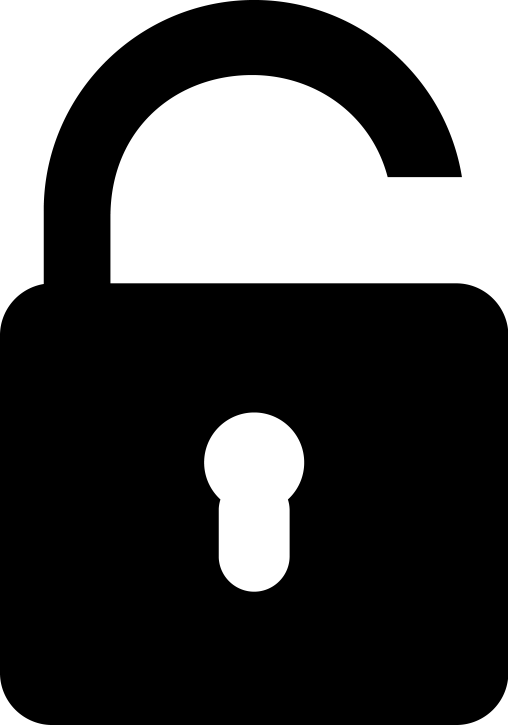
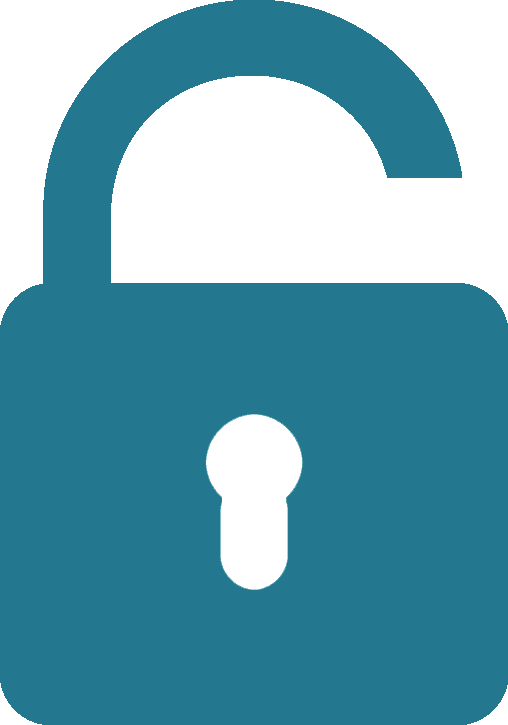
Fixes/security fixes (#24)
* unlock colour fix and missing error message

* Error handling improved and place holder code for global rpc message handler implemented.
error for invlid password to unlock wallet fixed and unlock wallet icon green

* updated wallet encrypted check to platform url, needs to be abstracted in the future due to code duplication.

* more error handling and messages, tweaked send style.

diff --git a/app/services/error.service.js b/app/services/error.service.js
@@ -1,28 +1,133 @@
 import { traduction } from '../lang/lang';
 
-const lang = traduction();
+const l = traduction();
 
-const ErrorEnum = Object.freeze(
-  {
-    RPC_MISC_ERROR: lang.invalidEccAddress,
-    RPC_IN_WARMUP: lang.loadingBlockIndex,
-    RPC_UNLOCK_WALLET: lang.unlockWalletFirst,
-    RPC_INVALID_ADDRESS: lang.invalidEccAddress,
-    RPC_WRONG_PASSPHASE: lang.walletWrongPass
-  }
-);
+// //! General application defined errors
+// RPC_MISC_ERROR                  = -1,  //! std::exception thrown in command handling
+// RPC_FORBIDDEN_BY_SAFE_MODE      = -2,  //! Server is in safe mode, and command is not allowed in safe mode
+// RPC_TYPE_ERROR                  = -3,  //! Unexpected type was passed as parameter
+// RPC_INVALID_ADDRESS_OR_KEY      = -5,  //! Invalid address or key
+// RPC_OUT_OF_MEMORY               = -7,  //! Ran out of memory during operation
+// RPC_INVALID_PARAMETER           = -8,  //! Invalid, missing or duplicate parameter
+// RPC_DATABASE_ERROR              = -20, //! Database error
+// RPC_DESERIALIZATION_ERROR       = -22, //! Error parsing or validating structure in raw format
+// RPC_VERIFY_ERROR                = -25, //! General error during transaction or block submission
+// RPC_VERIFY_REJECTED             = -26, //! Transaction or block was rejected by network rules
+// RPC_VERIFY_ALREADY_IN_CHAIN     = -27, //! Transaction already in chain
+// RPC_IN_WARMUP                   = -28, //! Client still warming up
+
+const GeneralErrEnum = Object.freeze({
+  RPC_MISC_ERROR                  :'',  //! std::exception thrown in command handling
+  RPC_FORBIDDEN_BY_SAFE_MODE      :'',  //! Server is in safe mode, and command is not allowed in safe mode
+  RPC_TYPE_ERROR                  :'',  //! Unexpected type was passed as parameter
+  RPC_INVALID_ADDRESS_OR_KEY      :l.invalidEccAddress,  //! Invalid address or key
+  RPC_OUT_OF_MEMORY               :'',  //! Ran out of memory during operation
+  RPC_INVALID_PARAMETER           :'',  //! Invalid, missing or duplicate parameter
+  RPC_DATABASE_ERROR              :'', //! Database error
+  RPC_DESERIALIZATION_ERROR       :'', //! Error parsing or validating structure in raw format
+  RPC_VERIFY_ERROR                :'', //! General error during transaction or block submission
+  RPC_VERIFY_REJECTED             :'', //! Transaction or block was rejected by network rules
+  RPC_VERIFY_ALREADY_IN_CHAIN     :'', //! Transaction already in chain
+  RPC_IN_WARMUP                   :l.loadingBlockIndex //! Client still warming up
+});
+
+const P2PClientErrEnum = Object.freeze({
+  RPC_CLIENT_NOT_CONNECTED:'',        //! -9,  //! Bitcoin is not connected
+  RPC_CLIENT_IN_INITIAL_DOWNLOAD:'',  //! -10, //! Still downloading initial blocks
+  RPC_CLIENT_NODE_ALREADY_ADDED:'',   //! -23, //! Node is already added
+  RPC_CLIENT_NODE_NOT_ADDED:'',       //! -24, //! Node has not been added before
+  RPC_CLIENT_NODE_NOT_CONNECTED:'',   //! -29, //! Node to disconnect not found in connected nodes
+  RPC_CLIENT_INVALID_IP_OR_SUBNET:'', //! -30, //! Invalid IP/Subnet
+});
+
+// //! Wallet errors
+// RPC_WALLET_ERROR                = -4,  //! Unspecified problem with wallet (key not found etc.)
+// RPC_WALLET_INSUFFICIENT_FUNDS   = -6,  //! Not enough funds in wallet or account
+// RPC_WALLET_INVALID_ACCOUNT_NAME = -11, //! Invalid account name
+// RPC_WALLET_KEYPOOL_RAN_OUT      = -12, //! Keypool ran out, call keypoolrefill first
+// RPC_WALLET_UNLOCK_NEEDED        = -13, //! Enter the wallet passphrase with walletpassphrase first
+// RPC_WALLET_PASSPHRASE_INCORRECT = -14, //! The wallet passphrase entered was incorrect
+// RPC_WALLET_WRONG_ENC_STATE      = -15, //! Command given in wrong wallet encryption state (encrypting an encrypted wallet etc.)
+// RPC_WALLET_ENCRYPTION_FAILED    = -16, //! Failed to encrypt the wallet
+// RPC_WALLET_ALREADY_UNLOCKED     = -17 //! Wallet is already unlocked
+
+const WalletErrEnum = Object.freeze({
+  RPC_WALLET_ERROR: l.generalWalletError, //! Unspecified problem with wallet (key not found etc.)
+  RPC_WALLET_INSUFFICIENT_FUNDS:'',    //! Not enough funds in wallet or account
+  RPC_WALLET_INVALID_ACCOUNT_NAME: l.invalidEccAddress, //! Invalid account name
+  RPC_WALLET_KEYPOOL_RAN_OUT: '',      //! Keypool ran out, call keypoolrefill first
+  RPC_WALLET_UNLOCK_NEEDED: l.unlockWalletFirst,        //! Enter the wallet passphrase with walletpassphrase first
+  RPC_WALLET_PASSPHRASE_INCORRECT: l.walletWrongPass, //! The wallet passphrase entered was incorrect
+  RPC_WALLET_WRONG_ENC_STATE: '',      //! Command given in wrong wallet encryption state (encrypting an encrypted wallet etc.)
+  RPC_WALLET_ENCRYPTION_FAILED: '',    //! Failed to encrypt the wallet
+  RPC_WALLET_ALREADY_UNLOCKED: l.unlockWalletFirst,     //! Wallet is already unlocked
+
+});
 
 export default {
-  getErrorFromCode: (status) => {
+  getErrorFromCode: (status, message = null) => {
     switch (status) {
+      //General errors
+      case -1:
+        return GeneralErrEnum.RPC_MISC_ERROR;
+      case -2:
+        return GeneralErrEnum.RPC_FORBIDDEN_BY_SAFE_MODE;
+      case -3:
+        return GeneralErrEnum.RPC_TYPE_ERROR;
       case -5:
-        return ErrorEnum.RPC_INVALID_ADDRESS;
-      case -13:
-        return ErrorEnum.RPC_UNLOCK_WALLET;
-      case -14:
-        return ErrorEnum.RPC_WRONG_PASSPHASE;
+        return GeneralErrEnum.RPC_INVALID_ADDRESS_OR_KEY;
+      case -7:
+        return GeneralErrEnum.RPC_OUT_OF_MEMORY;
+      case -8:
+        return GeneralErrEnum.RPC_INVALID_PARAMETER;
+      case -20:
+        return GeneralErrEnum.RPC_DATABASE_ERROR;
+      case -22:
+        return GeneralErrEnum.RPC_DESERIALIZATION_ERROR;
+      case -25:
+        return GeneralErrEnum.RPC_VERIFY_ERROR;
+      case -26:
+        return GeneralErrEnum.RPC_VERIFY_REJECTED;
+      case -27:
+        return GeneralErrEnum.RPC_VERIFY_ALREADY_IN_CHAIN;
       case -28:
-        return ErrorEnum.RPC_IN_WARMUP;
+        return GeneralErrEnum.RPC_IN_WARMUP;
+
+
+      //P2P errors
+      case -9:
+        return P2PClientErrEnum.RPC_CLIENT_NOT_CONNECTED;
+      case -10:
+        return P2PClientErrEnum.RPC_CLIENT_IN_INITIAL_DOWNLOAD;
+      case -23:
+        return P2PClientErrEnum.RPC_CLIENT_NODE_ALREADY_ADDED;
+      case -24:
+        return P2PClientErrEnum.RPC_CLIENT_NODE_NOT_ADDED;
+      case -29:
+        return P2PClientErrEnum.RPC_CLIENT_NODE_NOT_CONNECTED;
+      case -30:
+        return P2PClientErrEnum.RPC_CLIENT_INVALID_IP_OR_SUBNET;
+
+
+      //Wallet errors
+      case -4:
+        return WalletErrEnum.RPC_WALLET_ERROR + message;
+      case -6:
+        return WalletErrEnum.RPC_WALLET_INSUFFICIENT_FUNDS;
+      case -11:
+        return WalletErrEnum.RPC_WALLET_INVALID_ACCOUNT_NAME;
+      case -12:
+        return WalletErrEnum.RPC_WALLET_KEYPOOL_RAN_OUT;
+      case -13:
+        return WalletErrEnum.RPC_WALLET_UNLOCK_NEEDED;
+      case -14:
+        return WalletErrEnum.RPC_WALLET_PASSPHRASE_INCORRECT;
+      case -15:
+        return WalletErrEnum.RPC_WALLET_WRONG_ENC_STATE;
+      case -16:
+        return WalletErrEnum.RPC_WALLET_ENCRYPTION_FAILED;
+      case -17:
+        return WalletErrEnum.RPC_WALLET_ALREADY_UNLOCKED;
       default:
         return 'An Error Occurred';
     }

diff --git a/app/components/SendTransactions/Send.js b/app/components/SendTransactions/Send.js
@@ -5,10 +5,10 @@ import AddressBook from './AddressBook';
 import wallet from '../../utils/wallet';
 import { traduction } from '../../lang/lang';
 import glob from 'glob';
+import { grabWalletDir } from "../../services/platform.service";
+import ErrorService from '../../services/error.service';
 
-const fs = require('fs');
 const event = require('../../utils/eventhandler');
-const homedir = require('os').homedir();
 const lang = traduction();
 
 class Send extends Component {
@@ -40,14 +40,15 @@ class Send extends Component {
   checkIfWalletEncrypted() {
     const self = this;
     wallet.help().then((data) => {
+      // console.log(data);
       if (data.indexOf('walletlock') > -1) {
-        self.setState({ encrypted: true });
+        self.setState({ step: 3 });
       } else {
-        self.setState({ encrypted: false });
+        self.setState({ step: 1 });
       }
     }).catch((err) => {
       if (err.message === 'connect ECONNREFUSED 127.0.0.1:19119') {
-        glob(`${homedir}/.eccoin-wallet/Eccoind*`, (error, files) => {
+        glob(`${grabWalletDir()}`, (err, files) => {
           if (!files.length) {
             event.emit('show', 'Install wallet by clicking the button in the bottom left.');
           } else {
@@ -236,9 +237,8 @@ class Send extends Component {
         event.emit('animate', lang.moneySent);
       }
     }).catch((err) => {
-      console.log(err);
       self.setState({ dialog: false, eccAddress: '', amount: ''});
-      event.emit('animate', lang.moneySendError);
+      event.emit('animate', ErrorService.getErrorFromCode(err.code));
     });
   }
 
@@ -279,12 +279,11 @@ class Send extends Component {
     return (
       <div className="send">
         <div className="row">
-          <div className="col-md-12">
-            <div className="panel panel-default">
-              <div className="panel-body">
-                <AddressBook friendClicked={this.friendClicked} />
-              </div>
-            </div>
+          <div className="col-md-6">
+            <p className="title">{lang.send}</p>
+          </div>
+          <div className="col-md-6">
+
           </div>
         </div>
         <div className="row">
@@ -307,6 +306,24 @@ class Send extends Component {
             </div>
           </div>
         </div>
+        <div className="row">
+          <div className="col-md-6">
+            <p className="title">{lang.addressBook}</p>
+          </div>
+          <div className="col-md-6">
+
+          </div>
+        </div>
+        <div className="row">
+          <div className="col-md-12">
+            <div className="panel panel-default">
+              <div className="panel-body">
+                <AddressBook friendClicked={this.friendClicked} />
+              </div>
+            </div>
+          </div>
+        </div>
+
         {this.renderDialog()}
       </div>
     );

diff --git a/app/components/Security/Security.js b/app/components/Security/Security.js
@@ -6,9 +6,8 @@ import wallet from '../../utils/wallet';
 import WalletService from '../../services/wallet.service';
 import ErrorService from '../../services/error.service';
 import { traduction } from '../../lang/lang';
+import { grabWalletDir } from "../../services/platform.service";
 
-
-const homedir = require('os').homedir();
 const event = require('../../utils/eventhandler');
 const remote = require('electron').remote;
 const { clipboard } = require('electron');
@@ -70,7 +69,7 @@ class Security extends Component {
       }
     }).catch((err) => {
       if (err.message === 'connect ECONNREFUSED 127.0.0.1:19119') {
-        glob(`${homedir}/.eccoin-wallet/Eccoind*`, (error, files) => {
+        glob(`${grabWalletDir()}`, (err, files) => {
           if (!files.length) {
             event.emit('show', 'Install wallet by clicking the button in the bottom left.');
           } else {
@@ -151,7 +150,6 @@ class Security extends Component {
           event.emit('animate', lang.walletEncrypted);
         }
       }).catch((err) => {
-        console.log(err);
         event.emit('animate', err);
       });
     }
@@ -195,8 +193,10 @@ class Security extends Component {
       }
 
       WalletService.backupWallet(`${folderPaths}/walletBackup.dat`).then((data) => {
-        if(data == null) {
+        if(data === null) {
           event.emit('animate', lang.backupOk);
+        } else {
+          event.emit('animate', ErrorService.getErrorFromCode(data.code, data.message));
         }
       }).catch((err) => {
         event.emit('animate', ErrorService.getErrorFromCode(-99));

diff --git a/app/components/Home.js b/app/components/Home.js
@@ -7,6 +7,7 @@ import { walletwrapper } from '../utils/walletwrapper';
 import { traduction } from '../lang/lang';
 
 import WalletService from '../services/wallet.service';
+import ErrorService from '../services/error.service';
 
 const event = require('../utils/eventhandler');
 const lang = traduction();
@@ -160,9 +161,13 @@ class Home extends Component {
       WalletService.unlockWallet(passPhrase, timeL, staking).then((data) => {
         if (data === null) {
           event.emit('animate', `${lang.walletUnlockedFor} ${timeL} ${lang.seconds}`);
+        } else {
+          event.emit('animate', ErrorService.getErrorFromCode(data.code));
         }
         self.setState({ dialog: false, passPhrase: '', timeL: '' });
       }).catch((err) => {
+        const message = ErrorService.getErrorFromCode(err.code);
+        event.emit('animate', message);
         self.setState({ dialog: false, passPhrase: '', timeL: '' });
       });
     } else {

diff --git a/app/components/Settings/SettingsMain.js b/app/components/Settings/SettingsMain.js
@@ -4,7 +4,7 @@ import wallet from '../../utils/wallet';
 import event from '../../utils/eventhandler';
 import {getConfUri} from "../../services/platform.service";
 import fs from 'fs';
-const fsPath = require('fs-path');
+import fsPath from 'fs-path';
 
 const remote = require('electron').remote;
 const settings = require('electron-settings');

diff --git a/app/styles/Home.scss b/app/styles/Home.scss
@@ -11,6 +11,16 @@
   cursor: pointer;
 }
 
+.padicon-unlocked {
+  display: inline-block;
+  opacity: 0.4;
+  color: green;
+  width: 12px;
+  vertical-align: baseline;
+  margin-left: 10px;
+  cursor: pointer;
+}
+
 .home .selectfield {
   position: absolute;
   right: 35px;
